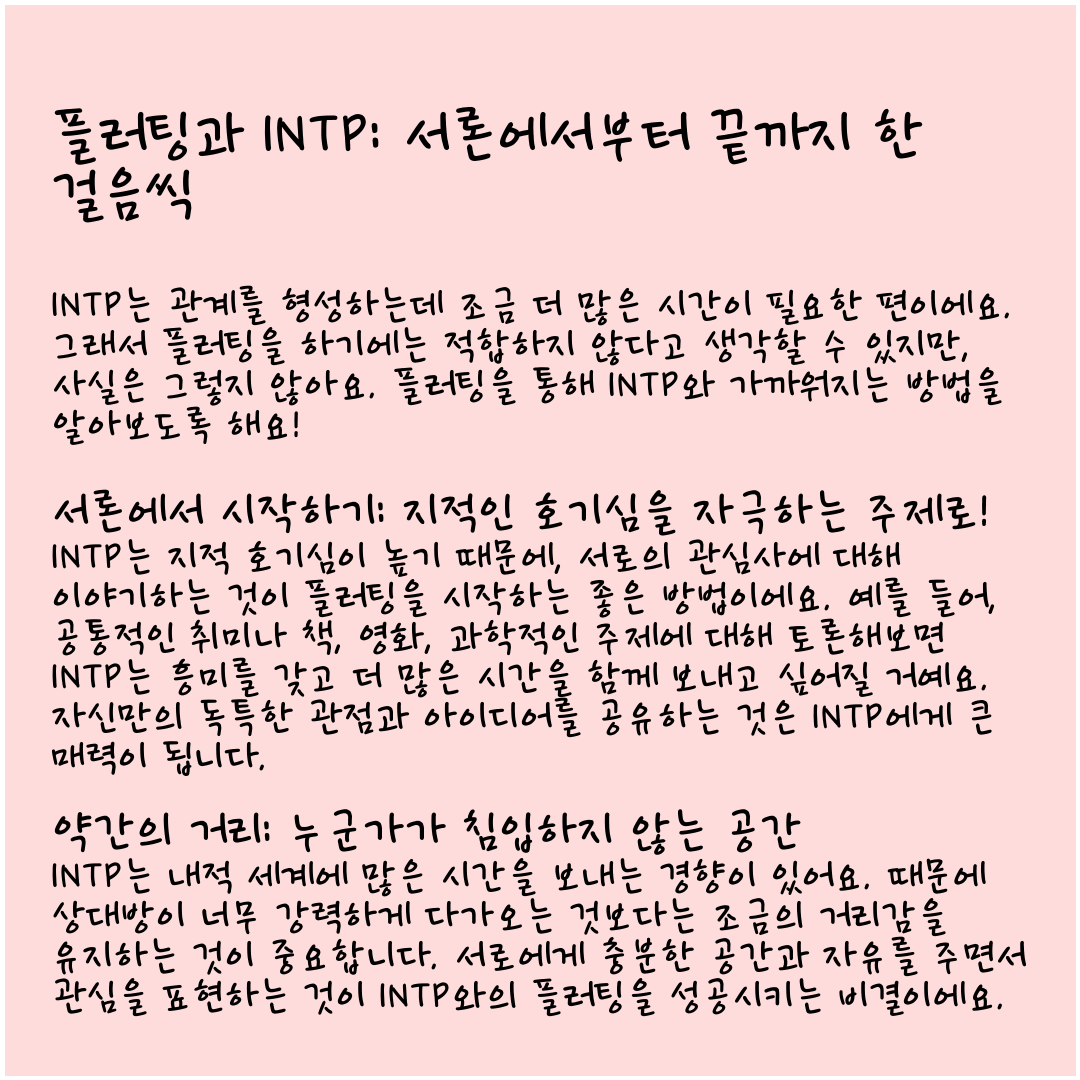
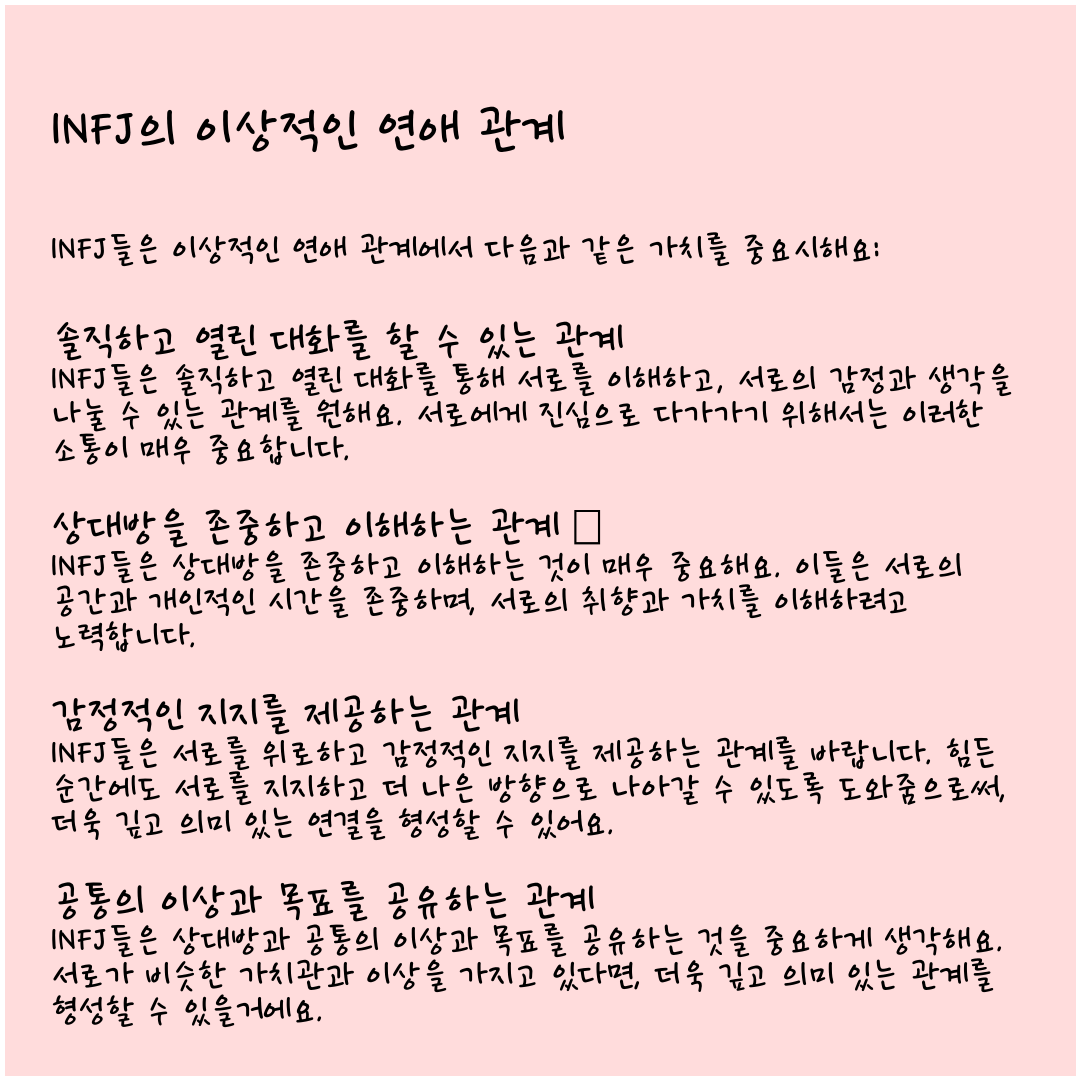
결합형 이모지 이슈 해결

Changed region(s): [[0.0306, 0.4583, 0.9472, 0.9472], [0.0306, 0.0917, 0.9472, 0.4278], [0.6111, 0.2139, 0.825, 0.2444]]

diff --git a/generateCardnewsContentImageByContent.py b/generateCardnewsContentImageByContent.py
@@ -61,21 +61,17 @@ def draw_tag(draw, tag, tag_name, font, y_position, max_text_width):
 
     y_correction_constant = (font.size/50)
 
-    if tag_name == 'h2':
-        text = remove_emoji(tag.text)
+    if tag_name in ['h2', 'h3', 'p']:
+        original_text = tag.text
+        print(f'Original text: {original_text}')  # Debug log
+        text = remove_emoji(remove_emoji(original_text))
+        print(f'Text after removing emoji: {text}')  # Debug log
         wrapped_text = wrap_text(draw, text, font, max_text_width)
         draw.text((50, y_position), wrapped_text, font=font, fill=TEXT_COLOR)
-        y_position += (120 + wrapped_text.count('\n') * 25)*y_correction_constant  # 헤더 다음에 여백 추가
-    elif tag_name == 'h3':
-        text = remove_emoji(tag.text)
-        wrapped_text = wrap_text(draw, text, font, max_text_width)
-        draw.text((50, y_position), wrapped_text, font=font, fill=TEXT_COLOR)
-        y_position += (50 + wrapped_text.count('\n') * 25)*y_correction_constant  # 소제목 다음에 여백 추가
-    elif tag_name == 'p':
-        text = remove_emoji(tag.text)
-        wrapped_text = wrap_text(draw, text, font, max_text_width)
-        draw.text((50, y_position), wrapped_text, font=font, fill=TEXT_COLOR)
-        y_position += (120 + wrapped_text.count('\n') * 40)*y_correction_constant  # 문단 다음에 여백 추가
+        y_position += (120 + wrapped_text.count('\n') * 25)*y_correction_constant if tag_name == 'h2' \
+            else (50 + wrapped_text.count('\n') * 25)*y_correction_constant if tag_name == 'h3' \
+            else (120 + wrapped_text.count('\n') * 40)*y_correction_constant  # Update y_position based on tag name
+            
     elif tag_name == 'ul':
         y_position += 60  # 리스트 전에 여백 추가
         for li_tag in tag.find_all('li'):
@@ -125,12 +121,16 @@ def get_font_size(tag_name, base_size):
 if __name__ == "__main__":
     # 예제 HTML
     html_content = '''
-    <h2 data-ke-size="size26">플러팅과 INTP: 서론에서부터 끝까지 한 걸음씩</h2>
-<p data-ke-size="size16">INTP는 관계를 형성하는데 조금 더 많은 시간이 필요한 편이에요. 그래서 플러팅을 하기에는 적합하지 않다고 생각할 수 있지만, 사실은 그렇지 않아요. 플러팅을 통해 INTP와 가까워지는 방법을 알아보도록 해요!</p>
-<h3 data-ke-size="size23">서론에서 시작하기: 지적인 호기심을 자극하는 주제로!</h3>
-<p data-ke-size="size16">INTP는 지적 호기심이 높기 때문에, 서로의 관심사에 대해 이야기하는 것이 플러팅을 시작하는 좋은 방법이에요. 예를 들어, 공통적인 취미나 책, 영화, 과학적인 주제에 대해 토론해보면 INTP는 흥미를 갖고 더 많은 시간을 함께 보내고 싶어질 거예요. 자신만의 독특한 관점과 아이디어를 공유하는 것은 INTP에게 큰 매력이 됩니다.</p>
-<h3 data-ke-size="size23">약간의 거리: 누군가가 침입하지 않는 공간</h3>
-<p data-ke-size="size16">INTP는 내적 세계에 많은 시간을 보내는 경향이 있어요. 때문에 상대방이 너무 강력하게 다가오는 것보다는 조금의 거리감을 유지하는 것이 중요합니다. 서로에게 충분한 공간과 자유를 주면서 관심을 표현하는 것이 INTP와의 플러팅을 성공시키는 비결이에요.</p>'''
+   <h2 data-ke-size="size26">INFJ의 이상적인 연애 관계 💑</h2>
+<p data-ke-size="size16">INFJ들은 이상적인 연애 관계에서 다음과 같은 가치를 중요시해요:</p>
+<h3 data-ke-size="size23">솔직하고 열린 대화를 할 수 있는 관계 🤗</h3>
+<p data-ke-size="size16">INFJ들은 솔직하고 열린 대화를 통해 서로를 이해하고, 서로의 감정과 생각을 나눌 수 있는 관계를 원해요. 서로에게 진심으로 다가가기 위해서는 이러한 소통이 매우 중요합니다.</p>
+<h3 data-ke-size="size23">상대방을 존중하고 이해하는 관계 🗨</h3>
+<p data-ke-size="size16">INFJ들은 상대방을 존중하고 이해하는 것이 매우 중요해요. 이들은 서로의 공간과 개인적인 시간을 존중하며, 서로의 취향과 가치를 이해하려고 노력합니다.</p>
+<h3 data-ke-size="size23">감정적인 지지를 제공하는 관계 🤗</h3>
+<p data-ke-size="size16">INFJ들은 서로를 위로하고 감정적인 지지를 제공하는 관계를 바랍니다. 힘든 순간에도 서로를 지지하고 더 나은 방향으로 나아갈 수 있도록 도와줌으로써, 더욱 깊고 의미 있는 연결을 형성할 수 있어요.</p>
+<h3 data-ke-size="size23">공통의 이상과 목표를 공유하는 관계 🌈</h3>
+<p data-ke-size="size16">INFJ들은 상대방과 공통의 이상과 목표를 공유하는 것을 중요하게 생각해요. 서로가 비슷한 가치관과 이상을 가지고 있다면, 더욱 깊고 의미 있는 관계를 형성할 수 있을거에요.</p>'''
 
     # 이미지 생성 및 저장
     generateCardnewsContentImageByContent(html_content, 'output_image',"/Users/usere/blogimageautomation/CardNewsAutomation/[MBTI] INTP에게 이상적인 연애 ")

diff --git a/remove_emoji.py b/remove_emoji.py
@@ -1,23 +1,9 @@
+import unicodedata
 
-import sys
-print(sys.executable)
-import emoji
+def remove_emoji(text):
+    # 변형 선택자를 포함한 이모지와 관련된 문자를 제거하는 수정된 함수
+    return "".join(c for c in text if not unicodedata.category(c) in ('So', 'Mn', 'Me'))
 
-def remove_emoji(input_string):
-    # 이모지를 찾아내기
-    emojis = [c for c in input_string if emoji.is_emoji(c)]
-
-    # 이모지를 제거한 문자열 생성
-    string_without_emoji = ''.join([c for c in input_string if c not in emojis])
-
-    return string_without_emoji
-
-
-if __name__ == "__main__":
-    # 예제 사용
-    
-    original_string = "플러팅과 INTP: 서론에서부터 끝까지 한 걸음씩 🚶♂💬"
-    string_without_emoji = remove_emoji(original_string)
-    print(f"Original String: {original_string}")
-    print(f"String without Emoji: {string_without_emoji}")
-
+sample_text = "테스트 메시지 🤗🗨!"
+clean_text = remove_emoji(sample_text)
+print(clean_text)  # "테스트 메시지 !"가 출력되어야 합니다.

diff --git a/main.py b/main.py
@@ -47,6 +47,6 @@ def confirm_and_display(folder_name):
 
 
 if __name__ == "__main__":
-    test_url = "https://giftedmbti.tistory.com/171"
+    test_url = "https://giftedmbti.tistory.com/170"
     folder_name = generate_images(test_url)
     confirm_and_display(folder_name)
